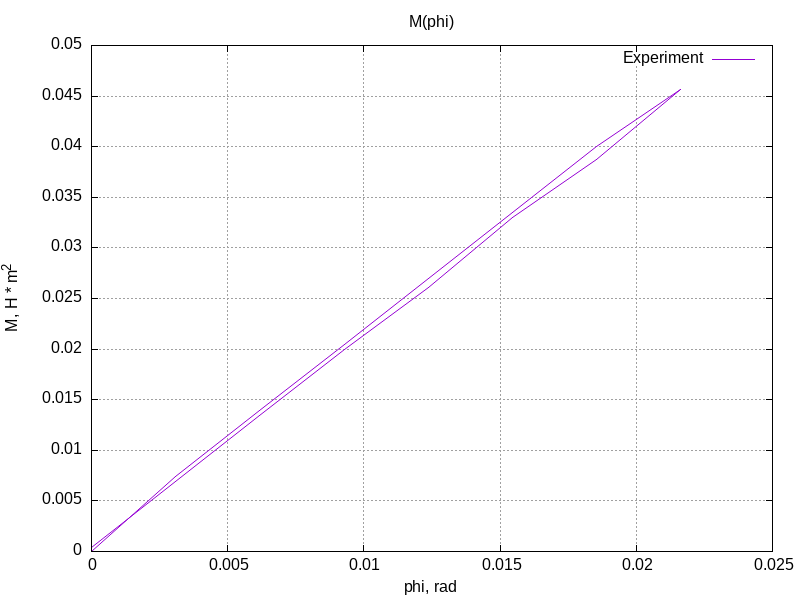
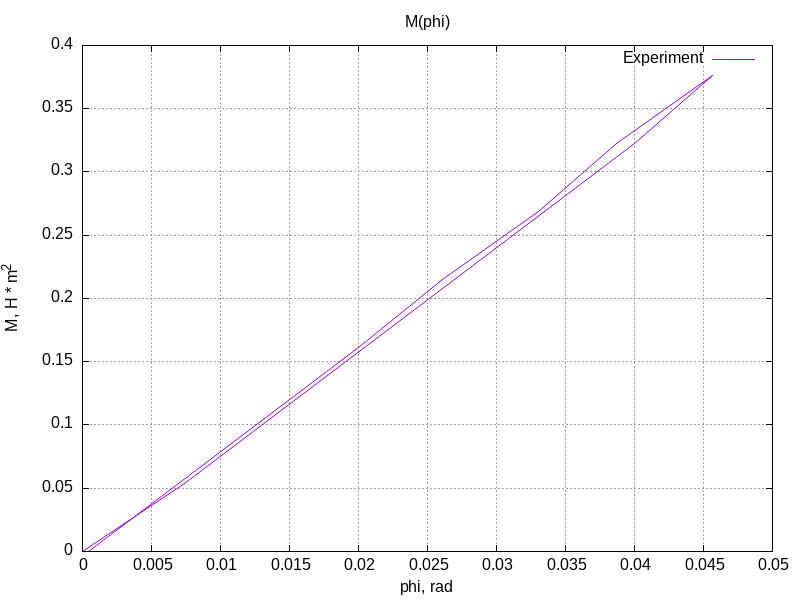
Rework all

diff --git a/2/main.cpp b/2/main.cpp
@@ -1,43 +1,51 @@
 
 #include <array>
+#include <cmath>
 #include <cstddef>
 #include <fstream>
 #include <iostream>
 #include <numbers>
+#include <ranges>
 #include <sstream>
 #include <vector>
-// [cm]
+
 using std::runtime_error;
 
-const double D = 10.96;
+// [cm]
 const double d = 0.63;
-const double l0 = 129.;
+const double D = 10.96;
 const double L = 115.;
-// [kg]
-const double m = 50. / 1000.;
-// [m]
-const double D_ = D / 100.;
-// [m^4]
-const double I_x = std::numbers::pi * D_ * D_ * D_ * D_ / 32.;
+const double l0 = 129.;
+// [g]
+const double m = 50.;
 
-// [m]
-const double r = d / 2. / 100.;
+// [m^4]
+const double I_x = std::numbers::pi * pow(d / 100., 4) / 32.;
+
+// [cm]
+const double d_d = 0.005;
+const double d_D = 0.005;
+const double d_L = 0.1;
+const double d_l0 = 0.1;
+const double d_Delta = 0.1;
+// [g]
+const double d_m = 1;
 
 // Delta [cm]
 double compute_phi(double Delta) { return Delta / (2. * L); }
 
 // return [N]
 double compute_P(size_t count) {
-  // 2 * count * m * g
+  // count * m * g
   // [1] * [kg] * [m / s^2]
-  return count * m * 9.81;
+  return count * m / 1000. * 9.81;
 }
 
 // return [H * m]
 double compute_M(double P) {
-  // 2 * (r * m * g)
-  // [m] * [kg] * [m / s^2]
-  return 2 * r * P;
+  // D * P
+  // [m] * [H]
+  return D / 100. * P;
 }
 
 // M [H * m]
@@ -45,7 +53,7 @@ double compute_M(double P) {
 double compute_tau(double M) {
   // M * r / I
   // [H * m] * [m] / [m^4]
-  return M * r / I_x;
+  return M * d / 2. / 100. / I_x;
 }
 
 double compute_gamma(double phi) {
@@ -65,14 +73,11 @@ double compute_G(double M, double phi) {
 int main() {
   std::ifstream in_file("raw_data.csv");
   // std::ofstream out("out.csv");
-  std::ostream &out = std::cout;
+  std::ofstream out_file("out.csv");
+  std::ostream &out = out_file; // std::cout;
   if (!in_file || !out) {
     throw runtime_error("file not found!");
   }
-  out << "N" << "\t" << "P" << "\t" << "Delta" << "\t" << "phi" << "\t" << "M"
-      << "\t" << "tau" << "\t" << "gamma"
-      << "\t" << "G" << std::endl;
-
   in_file.ignore(1000, '\n');
   std::string buffer;
   std::vector<std::tuple<size_t, double, size_t>> in_data;
@@ -86,6 +91,10 @@ int main() {
     in >> N >> Delta >> mass_count;
     in_data.push_back({N, Delta, mass_count});
   }
+
+  out << "N" << "\t" << "P" << "\t" << "Delta" << "\t" << "phi" << "\t" << "M"
+      << "\t" << "tau" << "\t" << "gamma"
+      << "\t" << "G" << std::endl;
 
   double Delta0 = std::get<1>(in_data.front());
 
@@ -101,5 +110,35 @@ int main() {
     out << N << "\t" << P << "\t" << Delta << "\t" << phi << "\t" << M << "\t"
         << tau << "\t" << gamma << "\t" << G << std::endl;
   }
+
+  double mean_G = 0.;
+  double mean_Delta = 0.;
+  double mean_mass_count = 0.;
+  std::ranges::subrange in_data_computed{in_data.begin() + 1,
+                                         in_data.end() - 1};
+  for (auto [N, Delta, mass_count] : in_data_computed) {
+    Delta -= Delta0;
+    double P = compute_P(mass_count);
+    double phi = compute_phi(Delta);
+    double M = compute_M(P);
+    double G = compute_G(M, phi);
+
+    mean_G += G;
+    mean_Delta += Delta;
+    mean_mass_count += mass_count;
+  }
+
+  mean_G /= (double)in_data_computed.size();
+  mean_Delta /= (double)in_data_computed.size();
+  mean_mass_count /= (double)in_data_computed.size();
+
+  double epsilon_G = sqrt(pow(4 * d_d / d, 2) + pow(d_Delta / mean_Delta, 2) +
+                          pow(d_D / D, 2) + pow(mean_mass_count * d_m / m, 2) +
+                          pow(d_l0 / l0, 2) + pow(d_L / L, 2));
+
+  double Delta_G = mean_G * epsilon_G;
+
+  std::cout << mean_G << " +- " << Delta_G << std::endl;
+
   return 0;
 }

diff --git a/2/README.md b/2/README.md
@@ -4,3 +4,23 @@
 Как считать погрешности я хз
 
 Можно сделать 2 графика покрасивее, когда за 0 считаем последнее а не первое измерение, и тогда в минус не будет уходить ничего))
+
+$\LARGE G = \frac{m g * D * l_0}{\phi \pi d^4 / 32} = \frac{32 * mg * D * l_0}{\phi \pi d^4} = \frac{64 * mg * D * l_0 * L}{\pi d^4 Delta}$
+
+$\Delta d = 0.05 mm = 0.005 cm$
+
+$\Delta D = 0.05 mm = 0.005 cm$
+
+$\Delta m = 1 g$
+
+$\Delta g = 0$
+
+$\Delta l_0 = 0.1 cm$
+
+$\Delta L = 0.1 cm$
+
+$\Delta Delta = 0.1 cm$
+
+$\varepsilon_G = \sqrt{(4 \varepsilon_d)^2 + \varepsilon_m^2 + \varepsilon_D^2 + \varepsilon_{l_0}^2 + \varepsilon_{Delta}^2 + \varepsilon_L^2}$
+
+G = 6.81866e+10 +- 5.70627e+09 Pa
